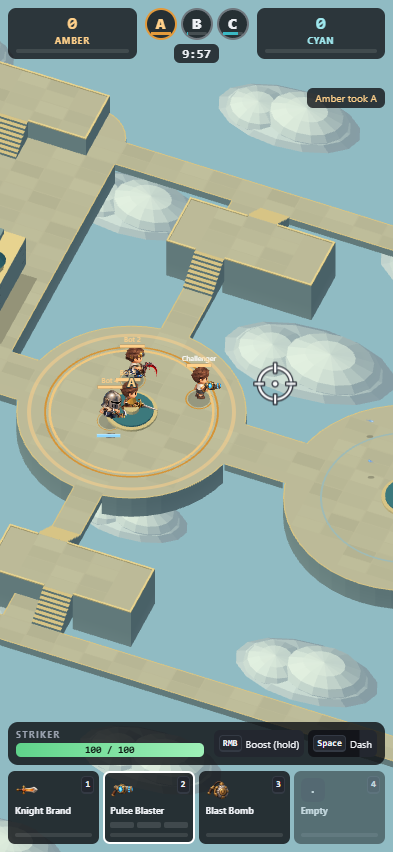
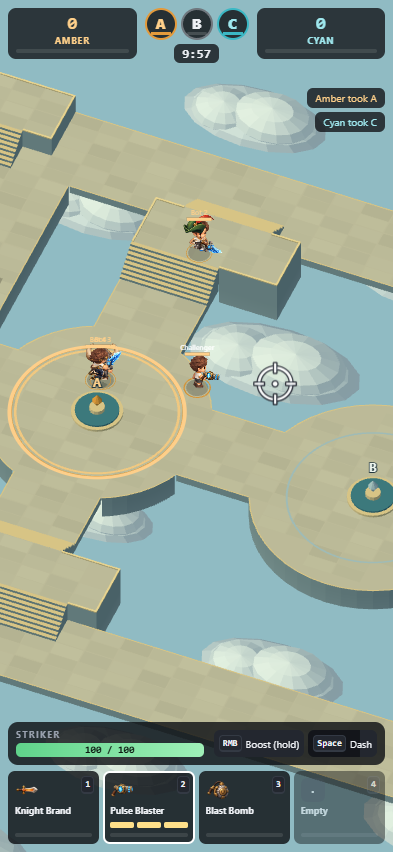
Widen Lockdown stairs, bridges and combat approaches

diff --git a/public/lockdown-maps.js b/public/lockdown-maps.js
@@ -35,6 +35,38 @@ function heights(left, { raised = [], stairs = [], flip = true }) {
 
 const mirrorRow = row => row + [...row].reverse().map(cell => cell === '1' ? '2' : cell).join('');
 
+/** Keep stairs and their approaches wide enough for combat, including off-centre
+ * approaches from the oblique camera. Expand the authored centre into a 3-cell
+ * flight, a full-width upper landing and two cells of clear lower approach.
+ * Shift boundary flights inward instead of cutting their width at the outer wall. */
+function widenStairs(grid, levels) {
+  const rows = grid.length, cols = grid[0].length, flights = [];
+  for (let r = 1; r < rows - 1; r++) for (let c = 1; c < cols - 1; c++) {
+    const arrow = levels[r][c]; if (!Object.hasOwn(STAIRS, arrow)) continue;
+    const [dc, dr] = STAIRS[arrow], start = Math.max(1, Math.min((dc ? r : c) - 1, (dc ? rows : cols) - 4));
+    for (let i = 0; i < 3; i++) flights.push({ c: dc ? c : start + i, r: dc ? start + i : r, arrow, dc, dr });
+  }
+  const clear = (c, r, height) => {
+    if (c <= 0 || c >= cols - 1 || r <= 0 || r >= rows - 1) return;
+    if (!['1', '2'].includes(grid[r][c])) grid[r][c] = '.';
+    levels[r][c] = height;
+  };
+  for (const { c, r, dc, dr } of flights) {
+    clear(c + dc, r + dr, '1');
+    clear(c - dc, r - dr, '0');
+    clear(c - dc * 2, r - dr * 2, '0');
+  }
+  // Apply the actual flights last so adjacent approaches cannot erase a stair.
+  for (const { c, r, arrow } of flights) clear(c, r, arrow);
+}
+
+/** Deliberate openings in the original cover layout, mirrored for both teams.
+ * These are route widths, not a change to the knight's collision radius. */
+const ROUTE_OPENINGS = {
+  keep: [[15, 10, 17, 14]],
+  foundry: [[9, 2, 9, 4], [9, 20, 9, 22]],
+};
+
 /** Six arenas in the Spiral Knights Lockdown mould. Each team's base is a spawn room
  * against the far left or far right wall; A sits on the left half, B in the middle and
  * C mirrors A on the right. Authored as the left half and mirrored, so neither side
@@ -103,61 +135,61 @@ const MAP_DEFS = {
   maze: {
     name: 'Hedge Labyrinth',
     theme: 'maze',
-    description: 'Twisting hedge corridors with three clearings. Swords rule the corners; guns rarely get a long line. Raised watch rooms sit in the corners and a gallery runs over the north and south hedges.',
+    description: 'Broad winding paths around hedge islands connect three clearings. Spaced cover breaks up long firing lines without pinching the routes. Wide stairs lead to raised watch rooms and the north and south galleries.',
     left: [
       '#####################',
-      '#.....#.......#......',
-      '#.....#.###.#.#.####.',
-      '#.###.#.#...#........',
-      '#.#.....#.#####.###.#',
-      '#.#.###.#.....#...#..',
-      '#...#...#####.#.#.#..',
-      '###.#.#.......#.#....',
+      '#....................',
+      '#....................',
+      '#....................',
+      '#....................',
+      '#.......###..........',
+      '#..###..###...###....',
+      '#..###........###....',
       '######.........#.....',
-      '#111.#.#.......#.....',
-      '#111.#.#.......#.....',
+      '#111.#.........#.....',
+      '#111.#...............',
       '#111.................',
       '#111.................',
       '#111.................',
-      '#111.#.#.......#.....',
-      '#111.#.#.......#.....',
+      '#111.#...............',
+      '#111.#.........#.....',
       '######.........#.....',
-      '###.#.#.......#.#....',
-      '#...#...#####.#.#.#..',
-      '#.#.###.#.....#...#..',
-      '#.#.....#.#####.###.#',
-      '#.###.#.#...#........',
-      '#.....#.###.#.#.####.',
-      '#.....#.......#......',
+      '#..###........###....',
+      '#..###..###...###....',
+      '#.......###..........',
+      '#....................',
+      '#....................',
+      '#....................',
+      '#....................',
       '#####################',
     ],
     levels: heights([
       '#####################',
-      '#.....#.......#......',
-      '#.....#.###.#.#.####.',
-      '#.###.#.#...#........',
-      '#.#.....#.#####.###.#',
-      '#.#.###.#.....#...#..',
-      '#...#...#####.#.#.#..',
-      '###.#.#.......#.#....',
+      '#....................',
+      '#....................',
+      '#....................',
+      '#....................',
+      '#.......###..........',
+      '#..###..###...###....',
+      '#..###........###....',
       '######.........#.....',
-      '#111.#.#.......#.....',
-      '#111.#.#.......#.....',
+      '#111.#.........#.....',
+      '#111.#...............',
       '#111.................',
       '#111.................',
       '#111.................',
-      '#111.#.#.......#.....',
-      '#111.#.#.......#.....',
+      '#111.#...............',
+      '#111.#.........#.....',
       '######.........#.....',
-      '###.#.#.......#.#....',
-      '#...#...#####.#.#.#..',
-      '#.#.###.#.....#...#..',
-      '#.#.....#.#####.###.#',
-      '#.###.#.#...#........',
-      '#.....#.###.#.#.####.',
-      '#.....#.......#......',
+      '#..###........###....',
+      '#..###..###...###....',
+      '#.......###..........',
+      '#....................',
+      '#....................',
+      '#....................',
+      '#....................',
       '#####################',
-    ], { raised: [[1, 1, 5, 2], [15, 1, 20, 1]], stairs: [[1, 3, '^'], [5, 3, '^'], [15, 2, '^'], [20, 2, '^']] }),
+    ], { raised: [[1, 1, 6, 2], [14, 1, 20, 2]], stairs: [[3, 3, '^'], [17, 3, '^'], [20, 3, '^']] }),
     points: [{ id: 'A', col: 10.5, row: 12.5 }, { id: 'B', col: 21, row: 12.5 }, { id: 'C', col: 31.5, row: 12.5 }],
   },
   foundry: {
@@ -533,7 +565,18 @@ function build(id, def) {
     // becomes open sky around the new rounded perimeter.
     return cell === '#' && row > 0 && row < rows - 1 && col > 0 && col < cols - 1 ? '#' : cell === '1' || cell === '2' ? cell : '.';
   }).join(''));
-  if (surfaces) for (let r = 0; r < rows; r++) levels[r] = [...levels[r]].map((cell, c) => grid[r][c] === '~' ? '0' : cell).join('');
+  const cells = grid.map(row => [...row]), floors = levels.map(row => [...row]);
+  for (const [c0, r0, c1, r1] of ROUTE_OPENINGS[id] || []) for (let r = r0; r <= r1; r++) for (let c = c0; c <= c1; c++) {
+    for (const cc of [c, cols - 1 - c]) { cells[r][cc] = '.'; floors[r][cc] = '0'; }
+  }
+  // The isolated posts outside the base doors left a one-cell squeeze against
+  // the spawn-room wall. Retain the room but open its external approach.
+  for (const r of [9, 10, rows - 11, rows - 10]) for (const c of [7, cols - 8]) {
+    if (cells[r][c] === '#') cells[r][c] = '.';
+  }
+  widenStairs(cells, floors);
+  grid = cells.map(row => row.join(''));
+  for (let r = 0; r < rows; r++) levels[r] = floors[r].map((cell, c) => grid[r][c] === '~' ? '0' : cell).join('');
   const spawns = [[], []];
   for (let row = 0; row < rows; row++) for (let col = 0; col < cols; col++) {
     const cell = grid[row][col];

diff --git a/test/lockdown-world.test.js b/test/lockdown-world.test.js
@@ -1,7 +1,7 @@
 import test from 'node:test';
 import assert from 'node:assert/strict';
 import * as E from '../public/lockdown-engine.js';
-import { levelAt, STAIRS, TILE } from '../public/lockdown-maps.js';
+import { levelAt, levelCell, STAIRS, TILE } from '../public/lockdown-maps.js';
 import { buildLockdownWorld, STOREY, VERTICAL } from '../public/lockdown-world-mesh.js';
 import { onMapSurface, surfaceSupportsBody } from '../public/lockdown-map-surfaces.js';
 import { groundToView, viewToGround, LOCKDOWN_YAW } from '../public/lockdown-camera.js';
@@ -81,4 +81,59 @@ test('rounded island edges stop bodies, bridge seams remain traversable and pit 
   assert.ok(cross.players[0].x > 1008, 'crossed from rounded A onto the bridge and B');
   const climb = arena(552, 360); walk(climb, { up: true }, 75);
   assert.equal(climb.players[0].z, 1, 'actual movement climbs the connected terrace stairs');
+});
+
+test('every stair flight has three lanes and knights can climb and descend off centre', () => {
+  for (const map of Object.values(E.MAPS)) {
+    const state = E.createState({ mapId: map.id, seed: 9 });
+    E.setConnected(state, 0, true, 'Ada'); E.startMatch(state, [0]); state.phase = 'fight';
+    for (const p of state.players) Object.assign(p, { alive: p.id === 0, bot: false, respawnTicks: 1e9 });
+    const p = state.players[0];
+    for (let r = 1; r < map.rows - 1; r++) for (let c = 1; c < map.cols - 1; c++) {
+      const arrow = levelCell(map, c, r); if (!STAIRS[arrow]) continue;
+      const [dx, dy] = STAIRS[arrow], px = dy ? 1 : 0, py = dx ? 1 : 0;
+      let width = 1;
+      for (const sign of [-1, 1]) for (let i = 1; levelCell(map, c + px * i * sign, r + py * i * sign) === arrow; i++) width++;
+      assert.ok(width >= 3, `${map.id} stair ${c},${r} has ${width} lanes`);
+      for (const direction of [1, -1]) for (const offset of [-7, 7]) {
+        const x = (c + .5) * TILE + px * offset, y = (r + .5) * TILE + py * offset;
+        const from = direction === 1 ? -2 : 1, to = direction === 1 ? 1 : -2;
+        Object.assign(p, { x: x + dx * from * TILE, y: y + dy * from * TILE, vx: 0, vy: 0, shieldTicks: 0 });
+        p.z = levelAt(map, p.x, p.y);
+        const targetX = x + dx * to * TILE, targetY = y + dy * to * TILE;
+        const input = { right: true, moveYaw: Math.atan2(dy * direction, dx * direction) };
+        let ticks = 0;
+        while ((targetX - p.x) * dx * direction + (targetY - p.y) * dy * direction > 0 && ticks++ < 140) walk(state, input, 1);
+        const label = `${map.id} stair ${c},${r} direction ${direction} offset ${offset}`;
+        assert.ok(ticks < 140, `${label}: blocked at ${p.x},${p.y}`);
+        assert.equal(p.z, direction === 1 ? 1 : 0, label);
+      }
+    }
+  }
+});
+
+test('Sky Bridges routes have room for two knights passing on separate lanes', () => {
+  const routes = [
+    [336, 120, 432, 120], [720, 120, 1296, 120], [336, 1080, 432, 1080],
+    [720, 1080, 1296, 1080], [552, 360, 552, 480], [1464, 720, 1464, 840],
+    [720, 600, 840, 600], [1176, 600, 1296, 600],
+  ];
+  for (const [ax, ay, bx, by] of routes) {
+    const state = arena(ax, ay), [a, b] = state.players;
+    const distance = Math.hypot(bx - ax, by - ay), dx = (bx - ax) / distance, dy = (by - ay) / distance;
+    Object.assign(a, { x: ax - dy * 34, y: ay + dx * 34 });
+    Object.assign(b, { alive: true, bot: false, x: bx + dy * 34, y: by - dx * 34, z: 0, vx: 0, vy: 0, shieldTicks: 0 });
+    let ticks = 0;
+    while ((a.x - ax) * dx + (a.y - ay) * dy < distance && ticks++ < 500) {
+      E.step(state, [
+        { ...E.emptyInput(), right: true, moveYaw: Math.atan2(dy, dx) },
+        { ...E.emptyInput(), right: true, moveYaw: Math.atan2(-dy, -dx) },
+      ]);
+      assert.ok(surfaceSupportsBody(E.MAPS.skyway, a.x, a.y, E.RULES.radius));
+      assert.ok(surfaceSupportsBody(E.MAPS.skyway, b.x, b.y, E.RULES.radius));
+      assert.ok(Math.hypot(a.x - b.x, a.y - b.y) >= E.RULES.radius * 2, 'passing lanes never overlap');
+    }
+    assert.ok(ticks < 500, `wide route ${ax},${ay} to ${bx},${by} is traversable`);
+    assert.ok((b.x - bx) * -dx + (b.y - by) * -dy > distance * .8, 'both knights cross');
+  }
 });

diff --git a/public/lockdown-map-surfaces.js b/public/lockdown-map-surfaces.js
@@ -16,21 +16,21 @@ const freezeSurface = surface => Object.freeze({ ...surface,
 export const SKY_SURFACES = Object.freeze([
   rounded('west-sanctuary', 48, 48, 288, 1104, 64, 'island'),
   rounded('east-sanctuary', 1680, 48, 288, 1104, 64, 'island'),
-  rounded('central-crossing', 192, 556, 1632, 88, 12),
-  rounded('north-walk', 192, 96, 1632, 48, 8),
-  rounded('south-walk', 192, 1056, 1632, 48, 8),
-  rounded('west-link', 528, 120, 48, 960, 8),
-  rounded('east-link', 1440, 120, 48, 960, 8),
+  rounded('central-crossing', 192, 528, 1632, 144, 18),
+  rounded('north-walk', 192, 48, 1632, 144, 18),
+  rounded('south-walk', 192, 1008, 1632, 144, 18),
+  rounded('west-link', 480, 120, 144, 960, 18),
+  rounded('east-link', 1392, 120, 144, 960, 18),
   disc('a-court', 552, 600, 176), disc('b-court', 1008, 600, 190), disc('c-court', 1464, 600, 176),
   rounded('northwest-terrace', 480, 192, 240, 96, 22, 'terrace'),
   rounded('northeast-terrace', 1296, 192, 240, 96, 22, 'terrace'),
   rounded('southwest-terrace', 480, 912, 240, 96, 22, 'terrace'),
   rounded('southeast-terrace', 1296, 912, 240, 96, 22, 'terrace'),
   // The north-facing landings join the upper loop to the raised terraces.
-  rounded('northwest-landing', 576, 96, 48, 144, 0),
-  rounded('northeast-landing', 1392, 96, 48, 144, 0),
-  rounded('southwest-landing', 576, 960, 48, 144, 0),
-  rounded('southeast-landing', 1392, 960, 48, 144, 0),
+  rounded('northwest-landing', 528, 96, 144, 144, 0),
+  rounded('northeast-landing', 1344, 96, 144, 144, 0),
+  rounded('southwest-landing', 528, 960, 144, 144, 0),
+  rounded('southeast-landing', 1344, 960, 144, 144, 0),
 ].map(freezeSurface));
 
 export function insideSurface(surface, x, y) {

diff --git a/docs/lockdown-scene-art.md b/docs/lockdown-scene-art.md
@@ -4,6 +4,8 @@ Lockdown renders all eight arenas as real WebGL geometry with an oblique overhea
 
 Sky Bridges uses authored rounded islands and bridge polygons in `public/lockdown-map-surfaces.js`. The same polygon union defines visible ground and body collision. Internal joins have no curb across the route. The coarse grid remains for bot navigation, heights and spawn-room cover. Both teams retain mirrored routes to all three capture points, and specialized shoes retain their ability to cross pits.
 
+Stair flights are at least three tiles wide (144 world units), with a full-width upper landing and two tiles of clear approach below. Sky Bridges' main crossing, outer loops and island links are also 144 units wide. The labyrinth has spaced hedge islands and broad paths; the keep's moat entrances, foundry bridges and base approaches are wider. These changes use the same map data for rendering, collision and bot navigation; the knight's collision radius is unchanged.
+
 `public/lockdown-world-mesh.js` constructs the static world. `lockdown-world-view.js` uploads it once per map, with a three-map GPU cache and a bounded sprite atlas. `lockdown-voxel-renderer.js` presents animated knight/equipment sprites with depth testing, compact 3D capture monuments and the combat overlays. A faint local silhouette preserves visibility behind tall cover. The original layered character, weapon and equipment artwork is retained.
 
 `lockdown-camera.js` defines the common projection for the WebGL scene, labels, effects and mouse picking. Movement and dashes rotate through the inverse camera basis; the server validates the movement angle. The capture ring still represents the actual 132-unit radius, while the solid monument is 80 units across. The render target follows Semag's 2.2-million-pixel budget. Hardware context loss switches to the existing Canvas renderer and context restoration rebuilds the GPU resources.
@@ -29,7 +31,7 @@ node tools/lockdown-browser-smoke.mjs
 
 The scripts use an installed Chrome browser. The deterministic fixture renders all eight arenas, checks WebGL errors and tests context loss/restoration. The live smoke test starts matches through the actual lobby, uses keyboard/mouse movement and combat, and checks HUD bounds at 1280 x 820, 393 x 852 and 320 x 720. These are browser viewport checks, not tests on physical iPhones.
 
-The regression suite checks GPU/HUD/picking agreement at different elevations, screen-relative movement, bounded finite mesh geometry, all stair landings, rounded-edge collision, bridge traversal, pit shoes, bot connectivity, multiplayer input, sprite dimensions and alpha. Voxel and Shinobi renderer tests guard the shared mesh export.
+The regression suite checks GPU/HUD/picking agreement at different elevations, screen-relative movement, bounded finite mesh geometry, all stair landings, actual off-centre climbing and descending through every stair lane, two knights passing on Sky Bridges routes, rounded-edge collision, bridge traversal, pit shoes, bot connectivity, multiplayer input, sprite dimensions and alpha. Voxel and Shinobi renderer tests guard the shared mesh export.
 
 ![Rounded Sky Bridges islands, continuous bridges and connected terrace stairs](screenshots/lockdown/skyway-phone.png)
 
